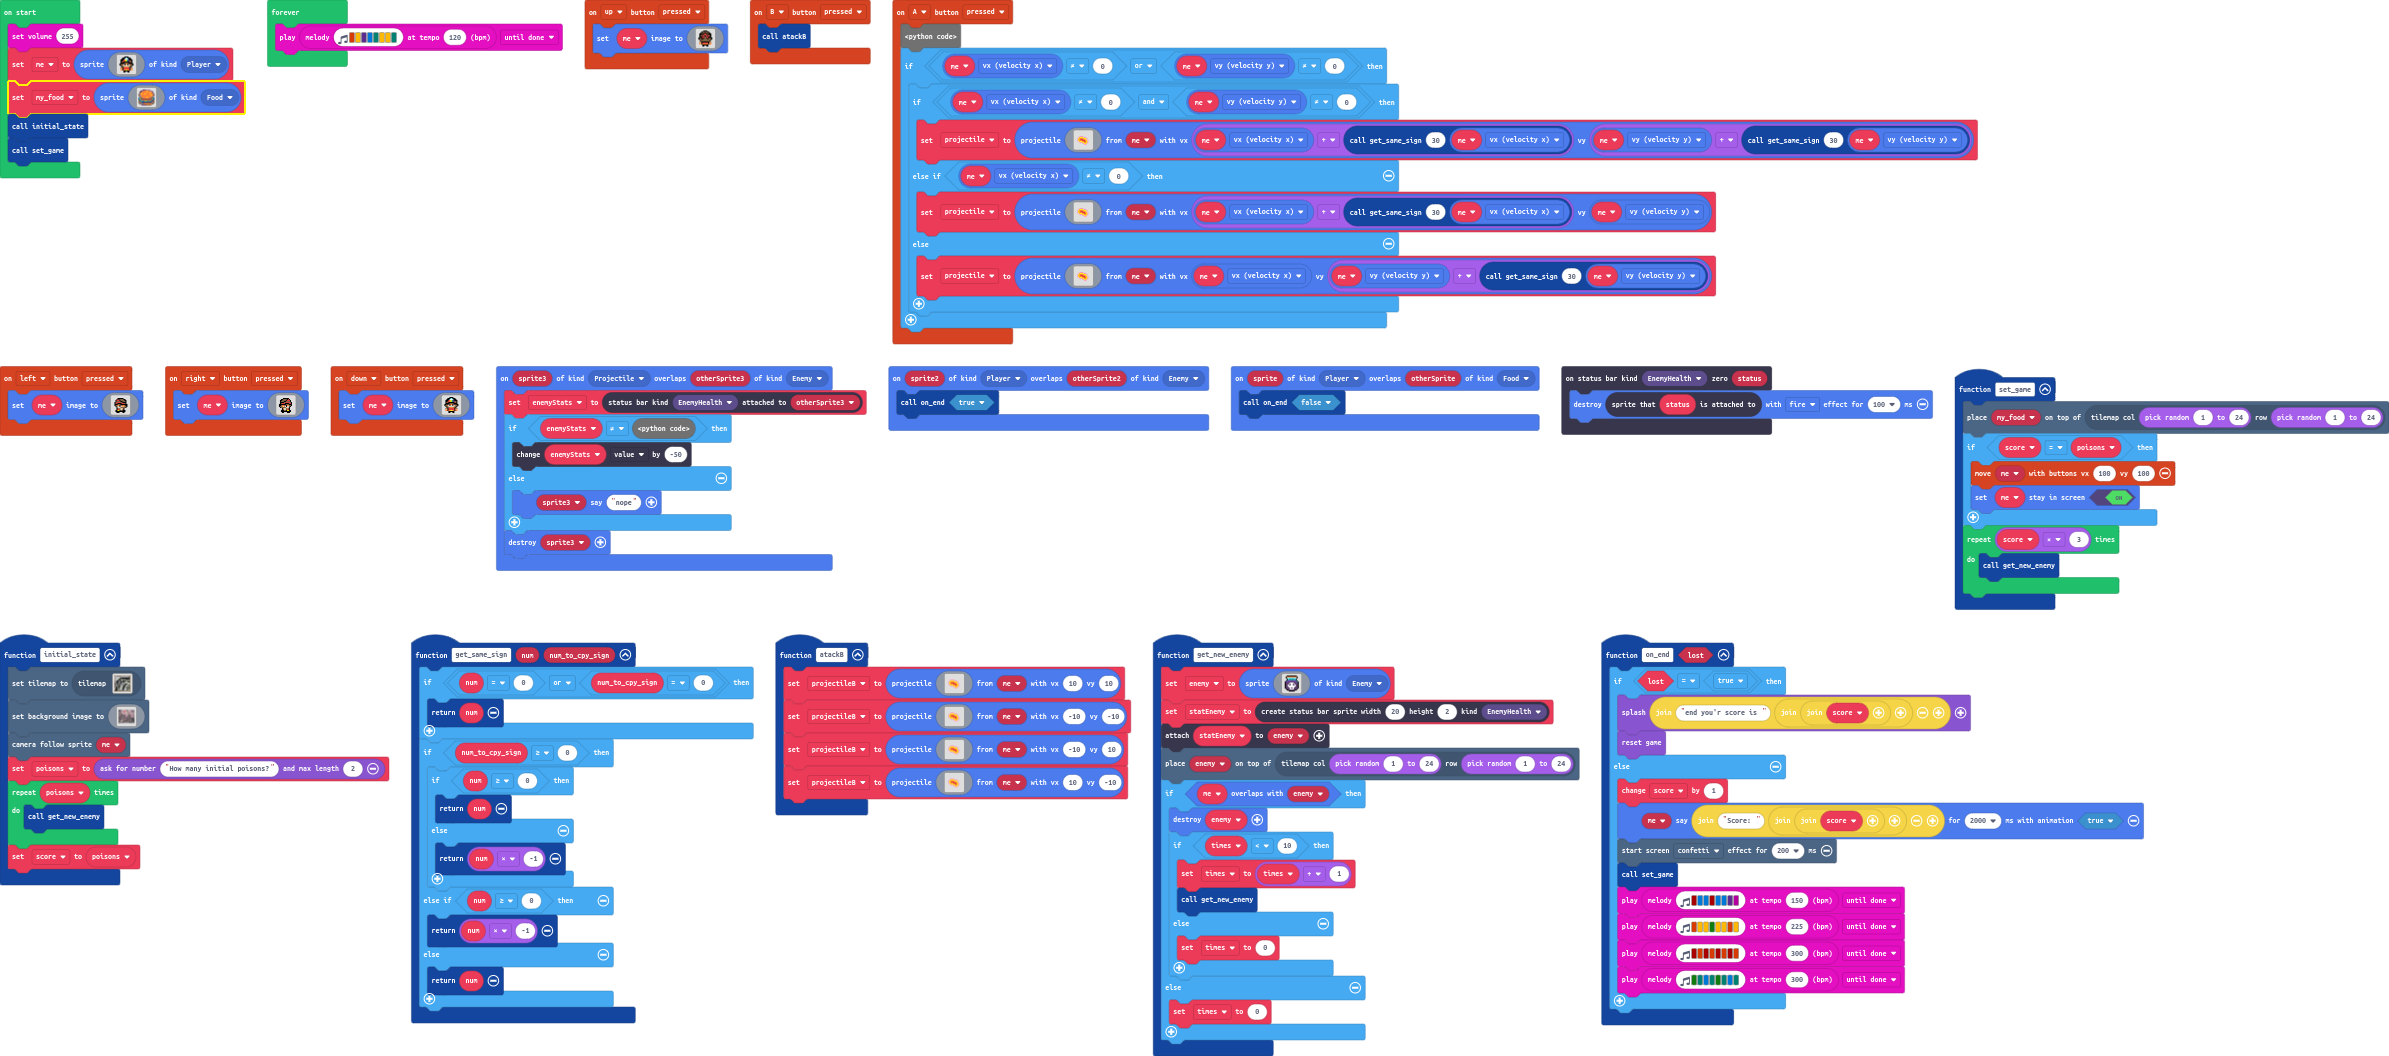
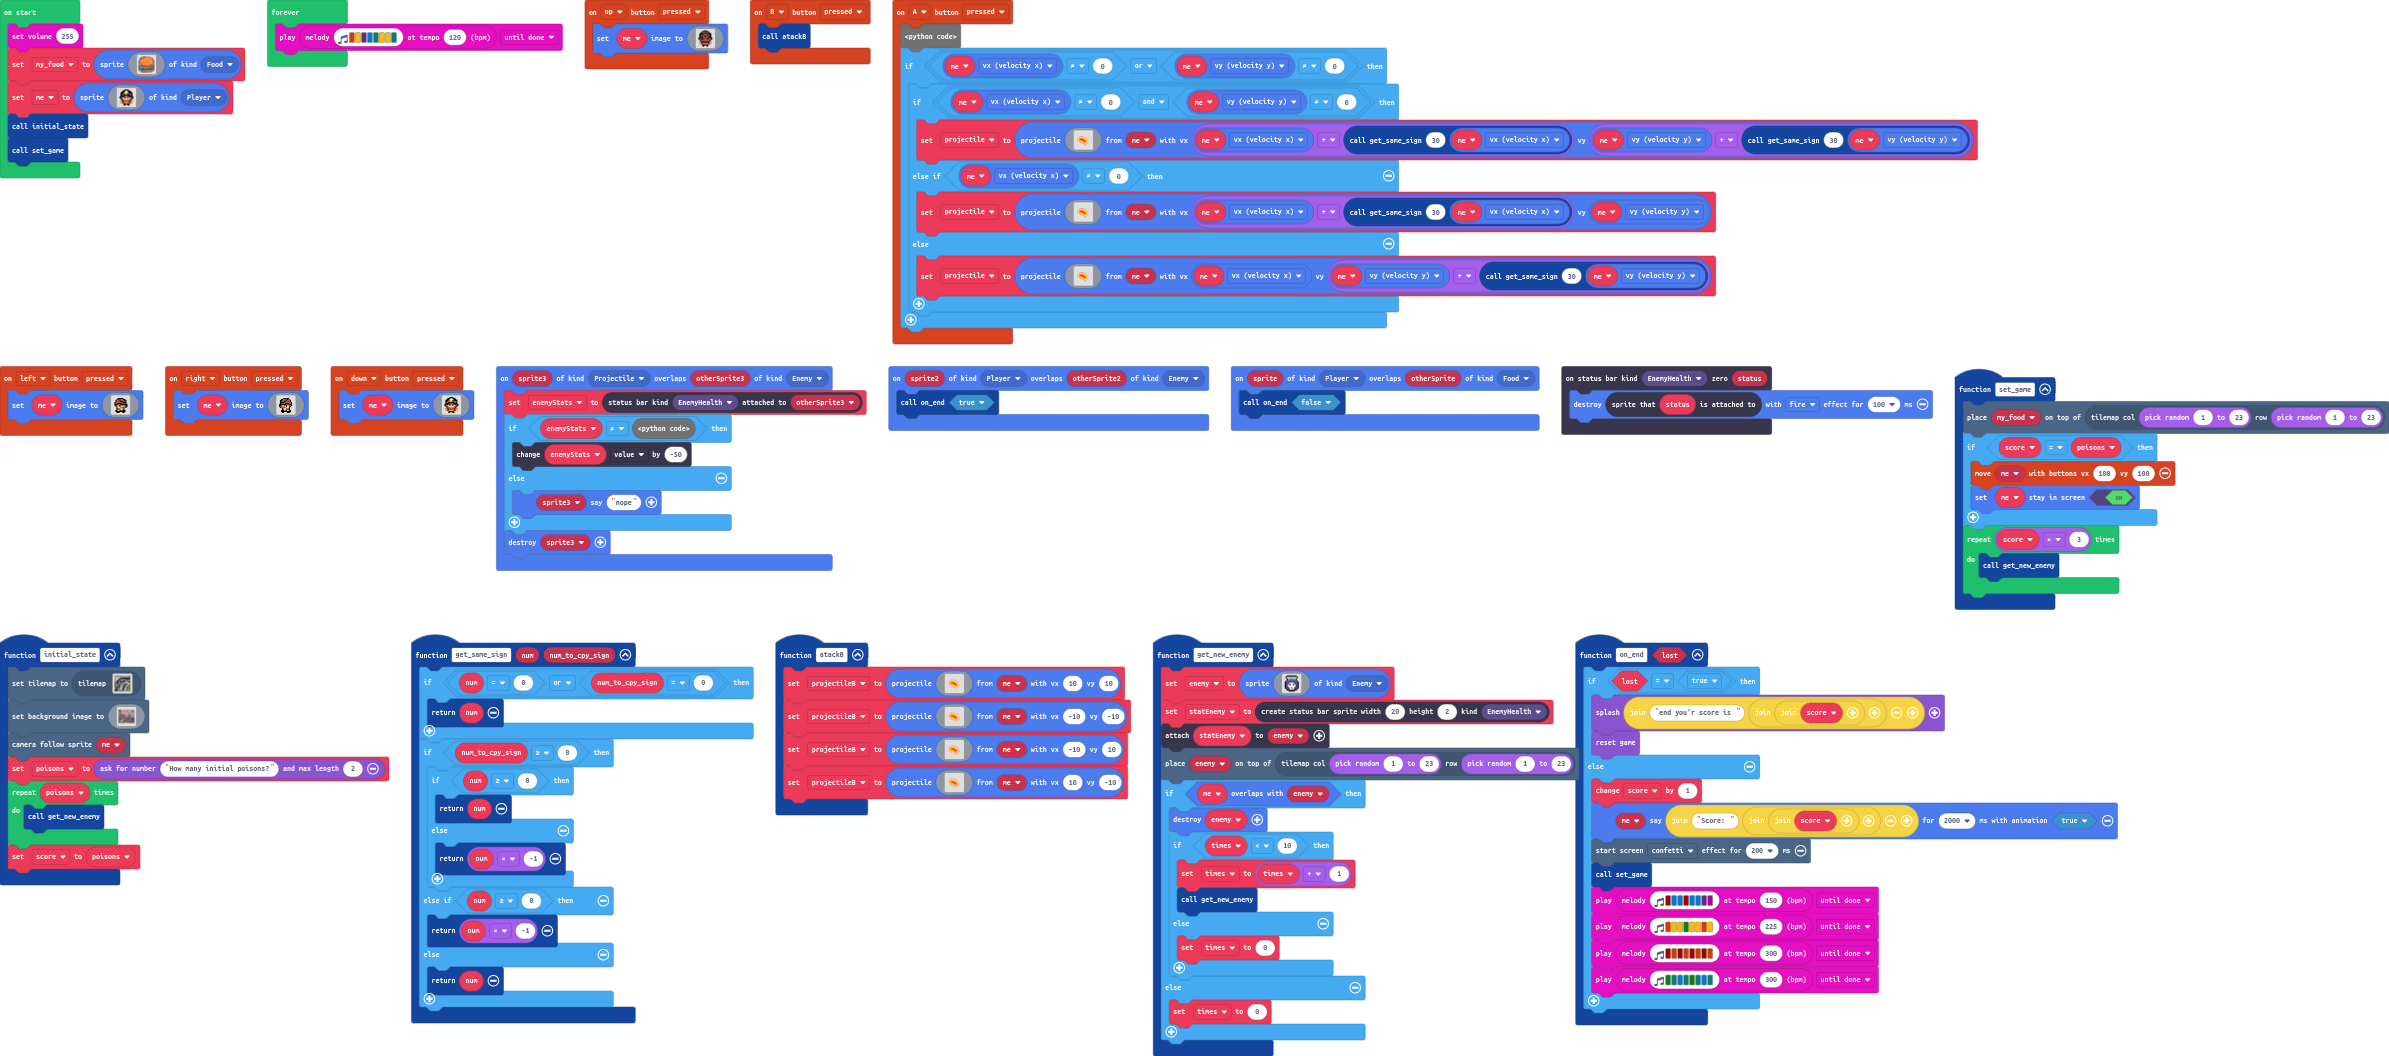
Update main.blocks, main.ts, main.py, tilemap.g.jres, tilemap.g.ts

Changed region(s): [[0.6505, 0.5938, 0.8983, 0.9688], [0.0, 0.0312, 0.1239, 0.125]]

diff --git a/tilemap.g.ts b/tilemap.g.ts
@@ -89,6 +89,25 @@ namespace myTiles {
 . . . . . . . . . . . . . . . . 
 . . . . . . . . . . . . . . . . 
 `, [myTiles.transparency16], TileScale.Sixteen);
+            case "level4":
+            case "level4":return tiles.createTilemap(hex`1000100000000000000000000000000000000000000000000000000000000000000000000000000000000000000000000000000000000000000000000000000000000000000000000000000000000000000000000000000000000000000000000000000000000000000000000000000000000000000000000000000000000000000000000000000000000000000000000000000000000000000000000000000000000000000000000000000000000000000000000000000000000000000000000000000000000000000000000000000000000000000000000000000000000000000000000000000000000000000000000000000000000000000000000000000000000000`, img`
+. . . . . . . . . . . . . . . . 
+. . . . . . . . . . . . . . . . 
+. . . . . . . . . . . . . . . . 
+. . . . . . . . . . . . . . . . 
+. . . . . . . . . . . . . . . . 
+. . . . . . . . . . . . . . . . 
+. . . . . . . . . . . . . . . . 
+. . . . . . . . . . . . . . . . 
+. . . . . . . . . . . . . . . . 
+. . . . . . . . . . . . . . . . 
+. . . . . . . . . . . . . . . . 
+. . . . . . . . . . . . . . . . 
+. . . . . . . . . . . . . . . . 
+. . . . . . . . . . . . . . . . 
+. . . . . . . . . . . . . . . . 
+. . . . . . . . . . . . . . . . 
+`, [myTiles.transparency16], TileScale.Sixteen);
         }
         return null;
     })

diff --git a/main.ts b/main.ts
@@ -2,7 +2,7 @@ namespace SpriteKind {
     export const humb = SpriteKind.create()
 }
 function set_game () {
-    tiles.placeOnTile(my_food, tiles.getTileLocation(randint(1, 24), randint(1, 24)))
+    tiles.placeOnTile(my_food, tiles.getTileLocation(randint(1, 23), randint(1, 23)))
     if (score == poisons) {
         controller.moveSprite(me, 100, 100)
         me.setStayInScreen(true)
@@ -33,7 +33,7 @@ function get_new_enemy () {
     enemy = sprites.create(assets.image`poison`, SpriteKind.Enemy)
     statEnemy = statusbars.create(20, 2, StatusBarKind.EnemyHealth)
     statEnemy.attachToSprite(enemy)
-    tiles.placeOnTile(enemy, tiles.getTileLocation(randint(1, 24), randint(1, 24)))
+    tiles.placeOnTile(enemy, tiles.getTileLocation(randint(1, 23), randint(1, 23)))
     if (me.overlapsWith(enemy)) {
         enemy.destroy()
         if (times < 10) {
@@ -127,11 +127,11 @@ let statEnemy: StatusBarSprite = null
 let enemy: Sprite = null
 let poisons = 0
 let score = 0
-let my_food: Sprite = null
 let me: Sprite = null
+let my_food: Sprite = null
 music.setVolume(255)
-me = sprites.create(assets.image`play-front`, SpriteKind.Player)
 my_food = sprites.create(assets.image`burger`, SpriteKind.Food)
+me = sprites.create(assets.image`play-front`, SpriteKind.Player)
 initial_state()
 set_game()
 forever(function () {

diff --git a/main.py b/main.py
@@ -46,14 +46,15 @@ def on_a_pressed():
 controller.A.on_event(ControllerButtonEvent.PRESSED, on_a_pressed)
 
 def get_new_enemy():
-    global enemy, statEnemy, times
+    global enemy, statEnemy, rand1, times
     enemy = sprites.create(assets.image("""
         poison
     """), SpriteKind.enemy)
     statEnemy = statusbars.create(20, 2, StatusBarKind.enemy_health)
     statEnemy.attach_to_sprite(enemy)
-    tiles.place_on_tile(enemy,
-        tiles.get_tile_location(randint(1, 24), randint(1, 24)))
+    rand1 = randint(1, 23)
+    
+    tiles.place_on_tile(enemy, tiles.get_tile_location(rand1, rand1))
     if me.overlaps_with(enemy):
         enemy.destroy()
         if times < 10:
@@ -144,6 +145,7 @@ def on_end(lost: bool):
         score += 1
         me.say_text("Score: " + ("" + str(score)), 2000, True)
         effects.confetti.start_screen_effect(200)
+        set_game()
         music.play(music.string_playable("C5 E E C5 E E D C ", 150),
             music.PlaybackMode.UNTIL_DONE)
         music.play(music.string_playable("B A A G A A B A ", 225),
@@ -152,7 +154,6 @@ def on_end(lost: bool):
             music.PlaybackMode.UNTIL_DONE)
         music.play(music.string_playable("G F E F G F E F ", 300),
             music.PlaybackMode.UNTIL_DONE)
-        set_game()
 
 def on_on_overlap3(sprite3, otherSprite3):
     global enemyStats
@@ -167,6 +168,7 @@ sprites.on_overlap(SpriteKind.projectile, SpriteKind.enemy, on_on_overlap3)
 enemyStats: StatusBarSprite = None
 projectileB: Sprite = None
 times = 0
+rand1 = 0
 statEnemy: StatusBarSprite = None
 enemy: Sprite = None
 poisons = 0
